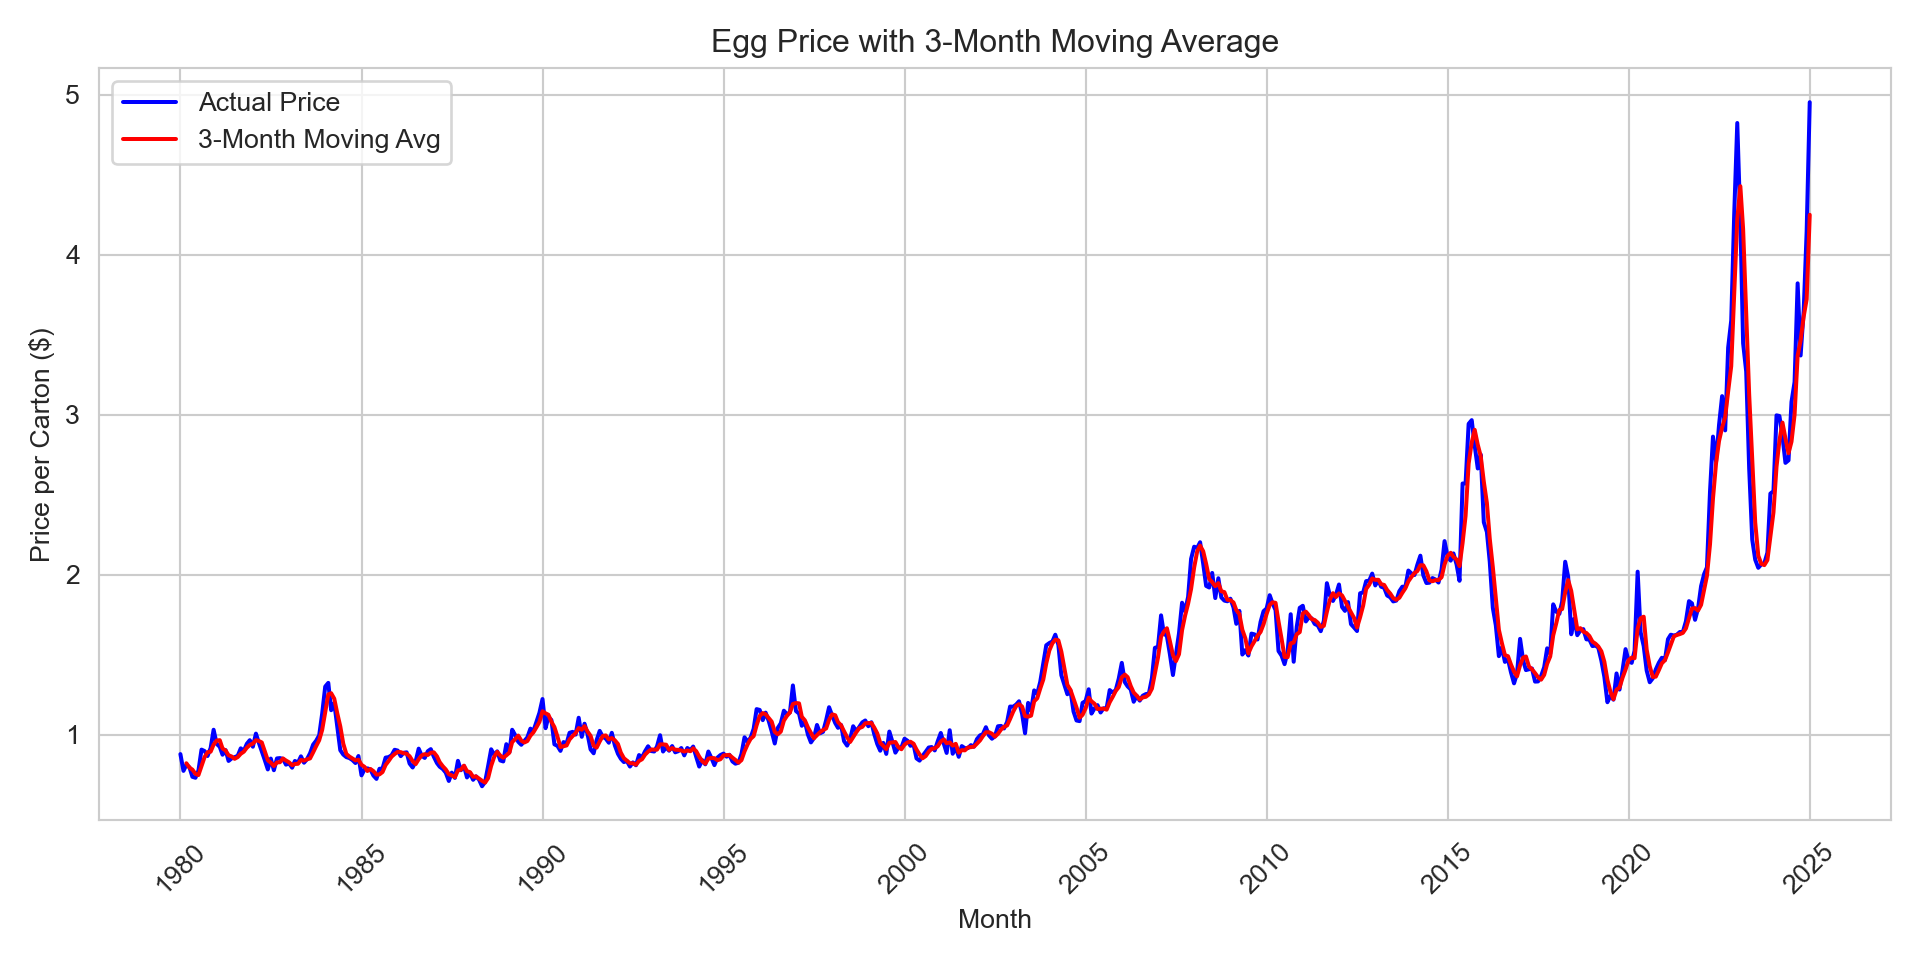
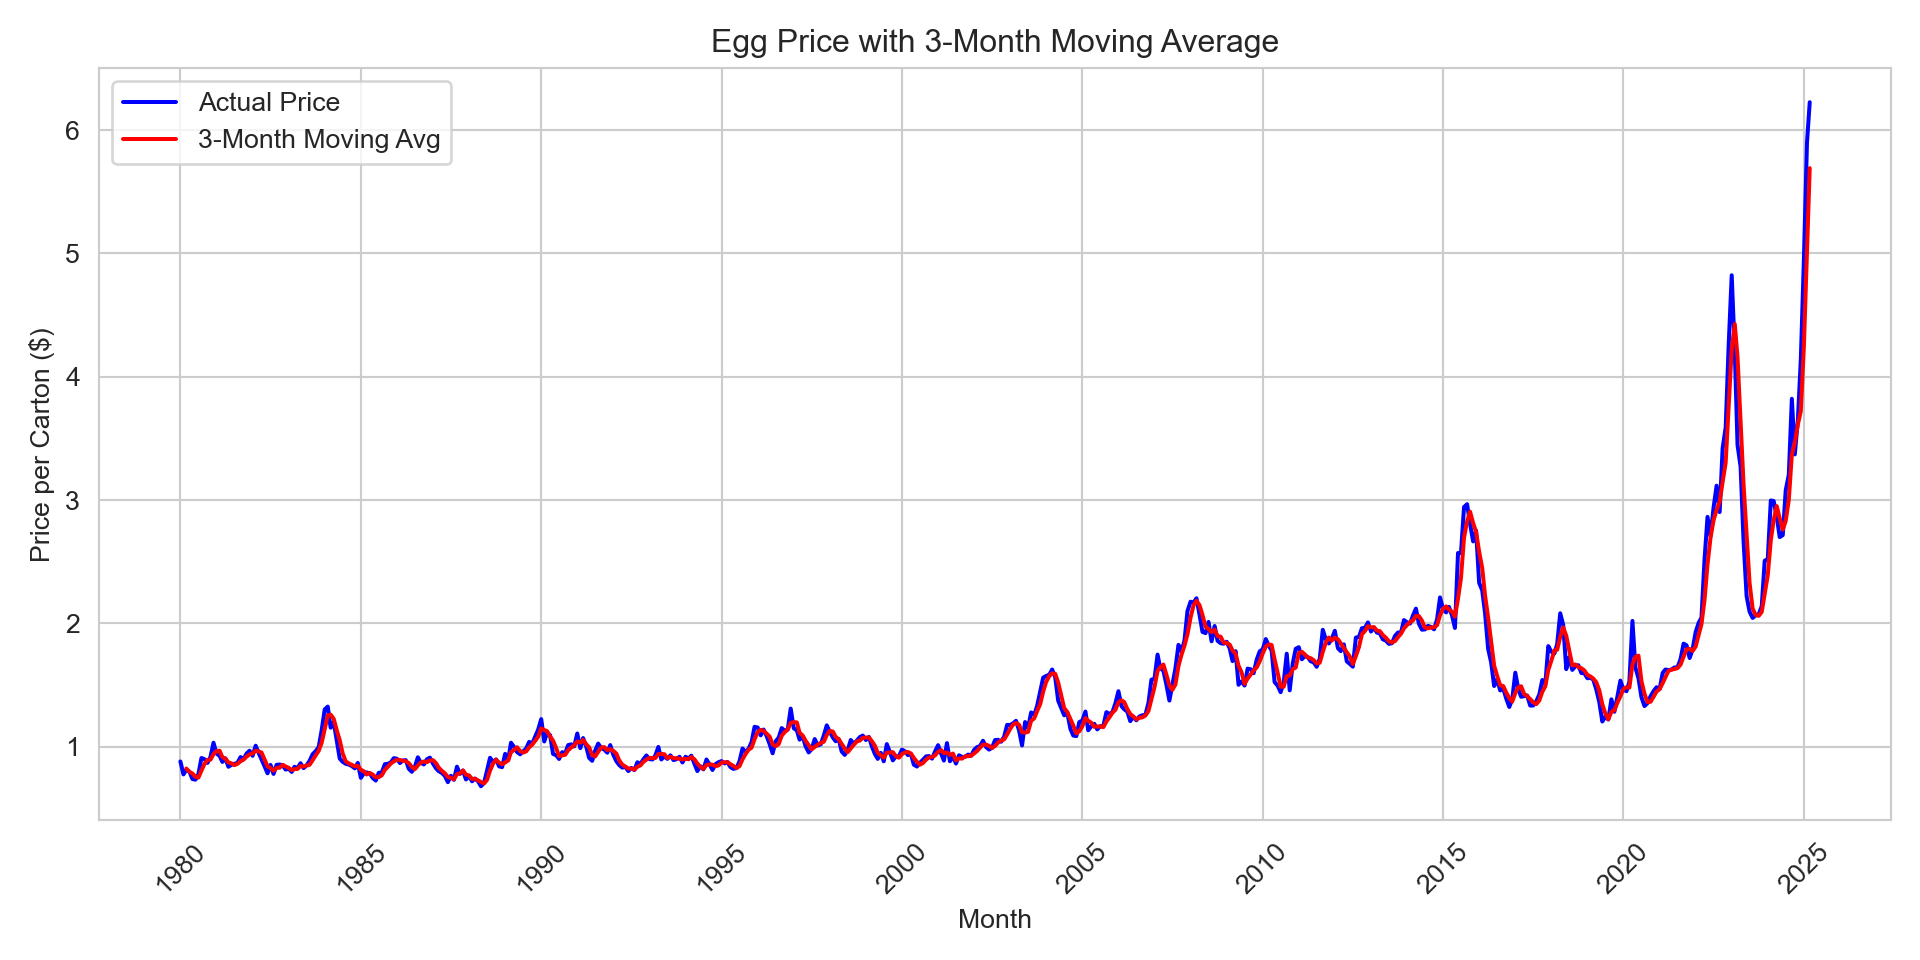
Edited Some Pages

diff --git a/Egg_Analysis.html b/Egg_Analysis.html
@@ -482,14 +482,14 @@ changes.</p>
 summary statistics:</p>
 <pre><code>## |    | index   |   Price |
 ## |---:|:--------|--------:|
-## |  0 | count   |  541.00 |
-## |  1 | mean    |    1.38 |
-## |  2 | std     |    0.64 |
+## |  0 | count   |  543.00 |
+## |  1 | mean    |    1.40 |
+## |  2 | std     |    0.70 |
 ## |  3 | min     |    0.68 |
 ## |  4 | 25%     |    0.91 |
 ## |  5 | 50%     |    1.15 |
 ## |  6 | 75%     |    1.71 |
-## |  7 | max     |    4.95 |</code></pre>
+## |  7 | max     |    6.23 |</code></pre>
 <p>These statistics reveal that most egg prices cluster around
 $1.00–$1.50, with occasional extreme values pushing prices much
 higher.</p>

diff --git a/da_vs_ba.html b/da_vs_ba.html
@@ -13,7 +13,7 @@
 
 <title>Data Analyst vs. Business Analyst: What’s the Difference? (3/7/25)</title>
 
-<script src="site_libs/header-attrs-2.25/header-attrs.js"></script>
+<script src="site_libs/header-attrs-2.24/header-attrs.js"></script>
 <script src="site_libs/jquery-3.6.0/jquery-3.6.0.min.js"></script>
 <meta name="viewport" content="width=device-width, initial-scale=1" />
 <link href="site_libs/bootstrap-3.3.5/css/yeti.min.css" rel="stylesheet" />

diff --git a/Computer_Theory.html b/Computer_Theory.html
@@ -13,7 +13,7 @@
 
 <title>Introduction to Theoretical Computer Science</title>
 
-<script src="site_libs/header-attrs-2.25/header-attrs.js"></script>
+<script src="site_libs/header-attrs-2.24/header-attrs.js"></script>
 <script src="site_libs/jquery-3.6.0/jquery-3.6.0.min.js"></script>
 <meta name="viewport" content="width=device-width, initial-scale=1" />
 <link href="site_libs/bootstrap-3.3.5/css/yeti.min.css" rel="stylesheet" />

diff --git a/Analysis_Methods.html b/Analysis_Methods.html
@@ -13,7 +13,7 @@
 
 <title>Problem Analysis and Quantitative Methods</title>
 
-<script src="site_libs/header-attrs-2.25/header-attrs.js"></script>
+<script src="site_libs/header-attrs-2.24/header-attrs.js"></script>
 <script src="site_libs/jquery-3.6.0/jquery-3.6.0.min.js"></script>
 <meta name="viewport" content="width=device-width, initial-scale=1" />
 <link href="site_libs/bootstrap-3.3.5/css/yeti.min.css" rel="stylesheet" />

diff --git a/Calc_III.html b/Calc_III.html
@@ -13,7 +13,7 @@
 
 <title>Calculus with Analytical Geometry III</title>
 
-<script src="site_libs/header-attrs-2.25/header-attrs.js"></script>
+<script src="site_libs/header-attrs-2.24/header-attrs.js"></script>
 <script src="site_libs/jquery-3.6.0/jquery-3.6.0.min.js"></script>
 <meta name="viewport" content="width=device-width, initial-scale=1" />
 <link href="site_libs/bootstrap-3.3.5/css/yeti.min.css" rel="stylesheet" />

diff --git a/Calc_II.html b/Calc_II.html
@@ -13,7 +13,7 @@
 
 <title>Calculus with Analytical Geometry II</title>
 
-<script src="site_libs/header-attrs-2.25/header-attrs.js"></script>
+<script src="site_libs/header-attrs-2.24/header-attrs.js"></script>
 <script src="site_libs/jquery-3.6.0/jquery-3.6.0.min.js"></script>
 <meta name="viewport" content="width=device-width, initial-scale=1" />
 <link href="site_libs/bootstrap-3.3.5/css/yeti.min.css" rel="stylesheet" />

diff --git a/Calc_I.html b/Calc_I.html
@@ -13,7 +13,7 @@
 
 <title>Calculus with Analytical Geometry I</title>
 
-<script src="site_libs/header-attrs-2.25/header-attrs.js"></script>
+<script src="site_libs/header-attrs-2.24/header-attrs.js"></script>
 <script src="site_libs/jquery-3.6.0/jquery-3.6.0.min.js"></script>
 <meta name="viewport" content="width=device-width, initial-scale=1" />
 <link href="site_libs/bootstrap-3.3.5/css/yeti.min.css" rel="stylesheet" />

diff --git a/Analytics.html b/Analytics.html
@@ -13,7 +13,7 @@
 
 <title>Applied Data Analytics Courses</title>
 
-<script src="site_libs/header-attrs-2.25/header-attrs.js"></script>
+<script src="site_libs/header-attrs-2.24/header-attrs.js"></script>
 <script src="site_libs/jquery-3.6.0/jquery-3.6.0.min.js"></script>
 <meta name="viewport" content="width=device-width, initial-scale=1" />
 <link href="site_libs/bootstrap-3.3.5/css/yeti.min.css" rel="stylesheet" />

diff --git a/Blockchain.html b/Blockchain.html
@@ -13,7 +13,7 @@
 
 <title>Global Blockchain for Business</title>
 
-<script src="site_libs/header-attrs-2.25/header-attrs.js"></script>
+<script src="site_libs/header-attrs-2.24/header-attrs.js"></script>
 <script src="site_libs/jquery-3.6.0/jquery-3.6.0.min.js"></script>
 <meta name="viewport" content="width=device-width, initial-scale=1" />
 <link href="site_libs/bootstrap-3.3.5/css/yeti.min.css" rel="stylesheet" />

diff --git a/Economics.html b/Economics.html
@@ -13,7 +13,7 @@
 
 <title>Economics for Decision-Making</title>
 
-<script src="site_libs/header-attrs-2.25/header-attrs.js"></script>
+<script src="site_libs/header-attrs-2.24/header-attrs.js"></script>
 <script src="site_libs/jquery-3.6.0/jquery-3.6.0.min.js"></script>
 <meta name="viewport" content="width=device-width, initial-scale=1" />
 <link href="site_libs/bootstrap-3.3.5/css/yeti.min.css" rel="stylesheet" />

diff --git a/Analytics_Project.html b/Analytics_Project.html
@@ -13,7 +13,7 @@
 
 <title>Applied Analytics Project</title>
 
-<script src="site_libs/header-attrs-2.25/header-attrs.js"></script>
+<script src="site_libs/header-attrs-2.24/header-attrs.js"></script>
 <script src="site_libs/jquery-3.6.0/jquery-3.6.0.min.js"></script>
 <meta name="viewport" content="width=device-width, initial-scale=1" />
 <link href="site_libs/bootstrap-3.3.5/css/yeti.min.css" rel="stylesheet" />

diff --git a/Comp_Math.html b/Comp_Math.html
@@ -13,7 +13,7 @@
 
 <title>Computational Mathematics</title>
 
-<script src="site_libs/header-attrs-2.25/header-attrs.js"></script>
+<script src="site_libs/header-attrs-2.24/header-attrs.js"></script>
 <script src="site_libs/jquery-3.6.0/jquery-3.6.0.min.js"></script>
 <meta name="viewport" content="width=device-width, initial-scale=1" />
 <link href="site_libs/bootstrap-3.3.5/css/yeti.min.css" rel="stylesheet" />
